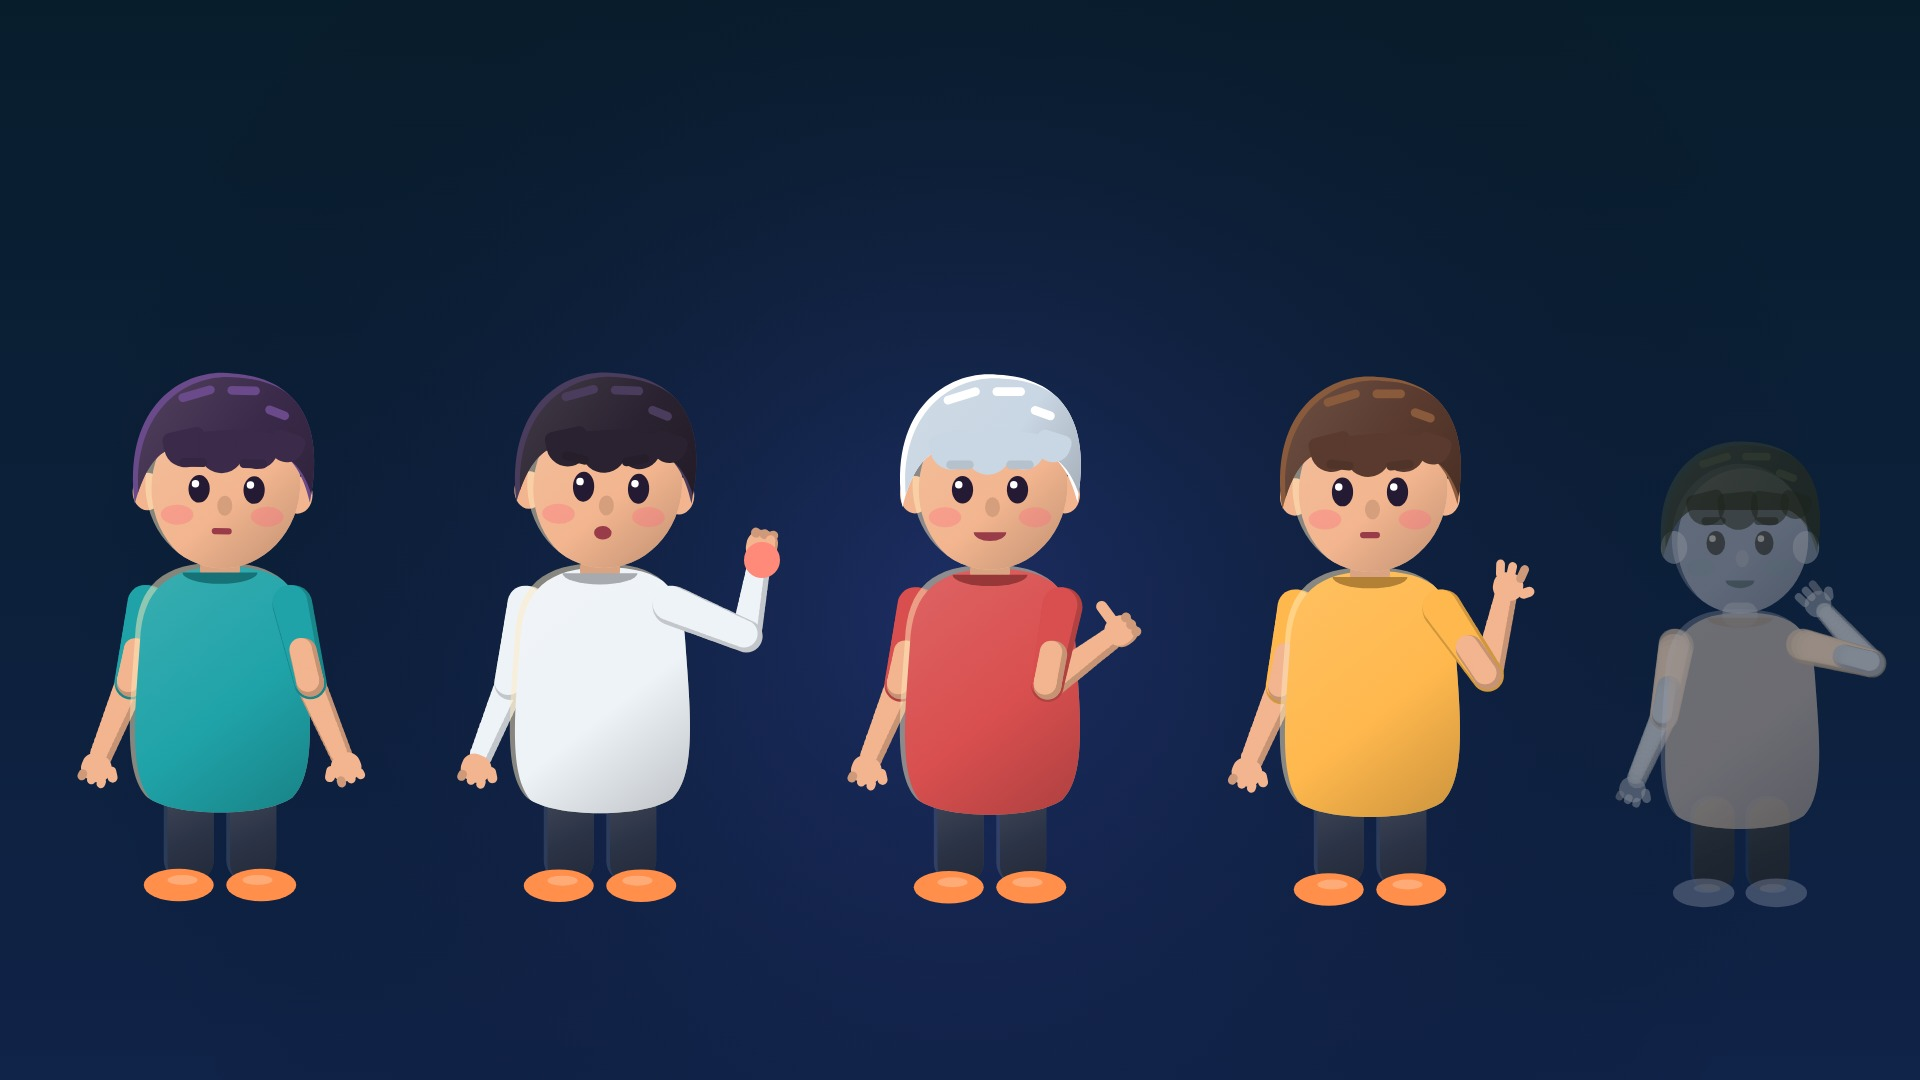
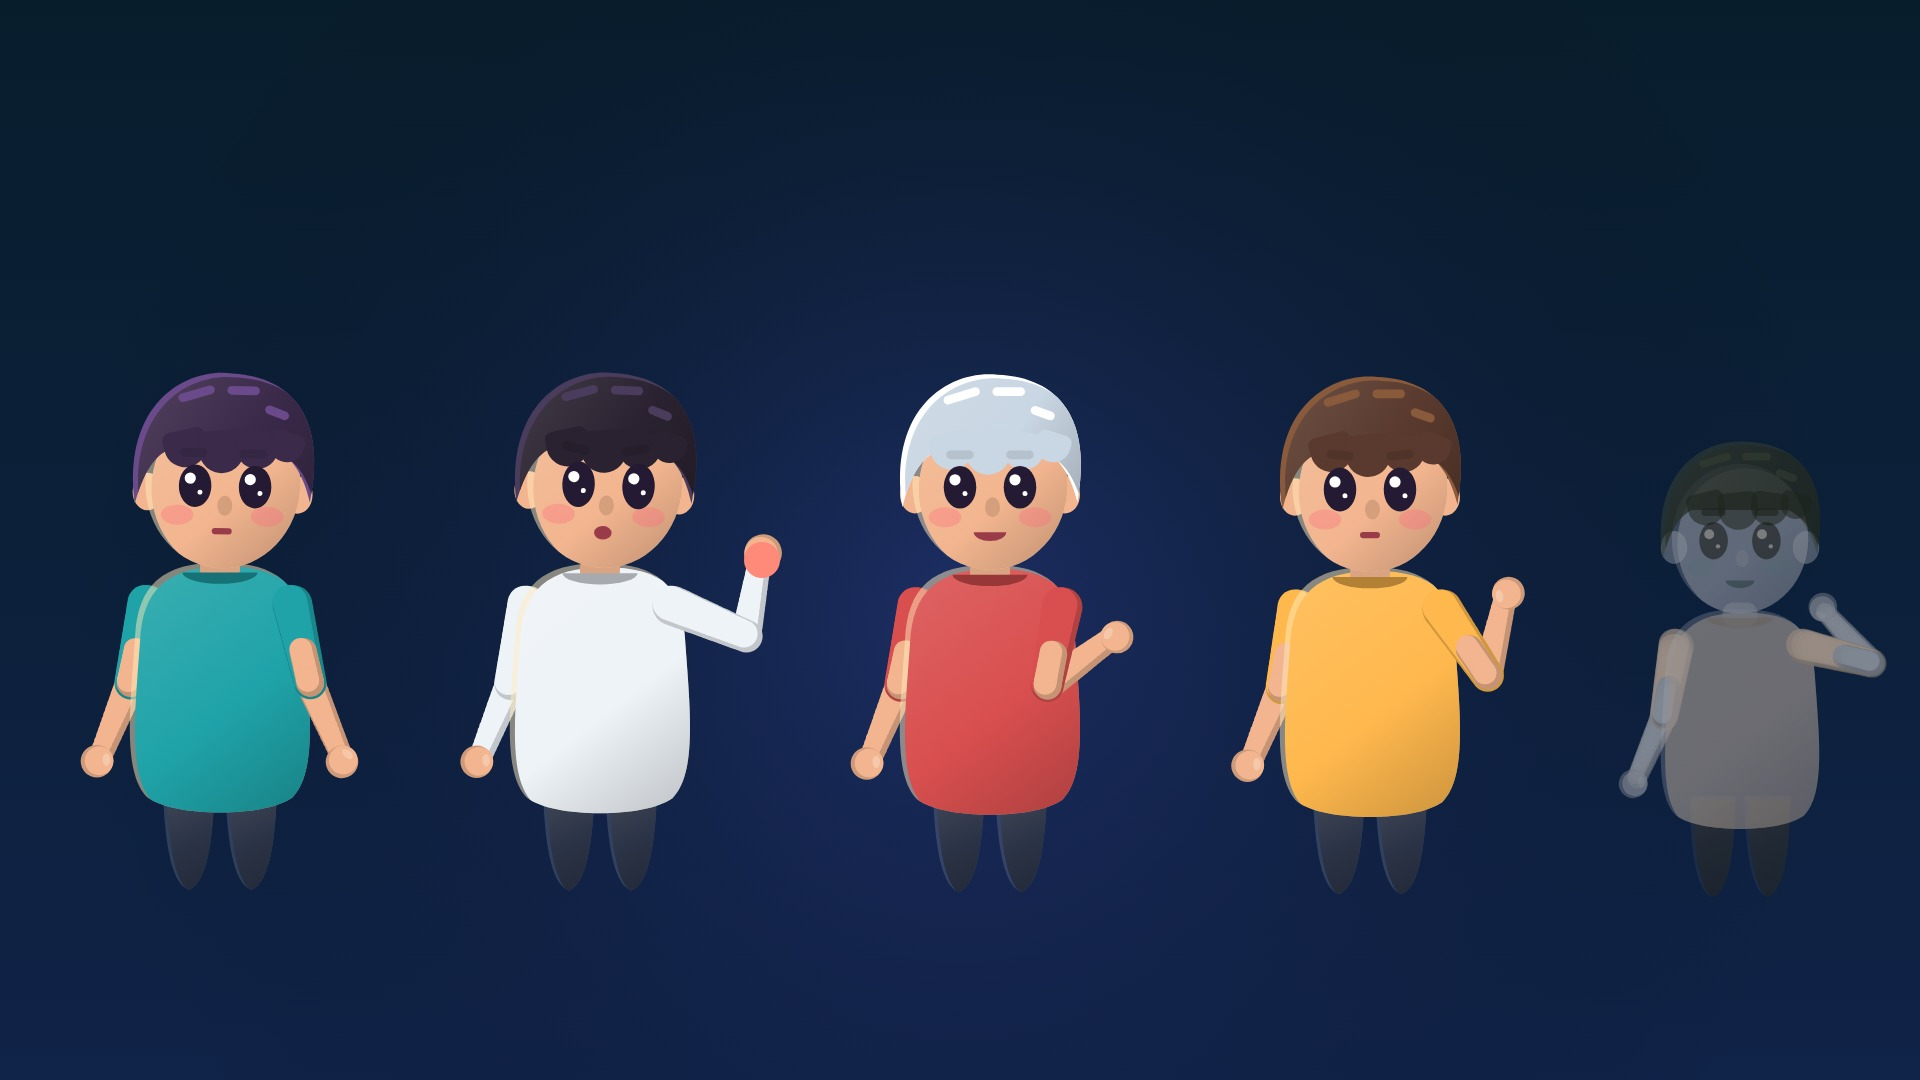
Character v3: no fingers or shoes (rounded stubs), big glossy eyes
Claude-Session: https://claude.ai/code/session_01H3aMRQey6c6WogfkzFoRch

diff --git a/work/personagem/folha.html b/work/personagem/folha.html
@@ -66,21 +66,12 @@ function tube(p, c, q, w0, w1, col, light = true) {
 }
 // mão em mitene com dedos curtos. pose: relax | aberta | punho | aponta | joinha | pare
 function hand2(wr, ang, pose, th, skin) {
+  // mão sem dedos: uma ponta arredondada, com um leve brilho
   ctx.save(); ctx.translate(wr.x, wr.y); ctx.rotate(ang);
-  const sk = skin, sh = shade(skin, -.15);
-  const C = (x, y, r, col) => { ctx.fillStyle = col; ctx.beginPath(); ctx.arc(x, y, r, 0, 6.283); ctx.fill(); };
-  const RR = (x, y, w, h, r, col) => { ctx.fillStyle = col; ctx.beginPath(); ctx.roundRect(x, y, w, h, r); ctx.fill(); };
-  if (pose === 'punho' || pose === 'aponta' || pose === 'joinha') {
-    RR(0, -12, 24, 24, 10, sh); RR(-1, -13, 23, 23, 10, sk);
-    for (let i = 0; i < 3; i++) C(21, -7 + i * 7, 4, sh);
-    if (pose === 'aponta') RR(20, -12, 22, 8, 4, sk);
-    if (pose === 'joinha') RR(6, th > 0 ? -30 : 8, 9, 22, 4.5, sk); else RR(6, th * 5 - 3.5, 15, 8, 4, sk);
-  } else {
-    const ext = pose === 'relax' ? 9 : 15, spr = pose === 'pare' ? .2 : .07;
-    RR(0, -12, 22, 24, 10, sk);
-    for (let i = 0; i < 3; i++) { ctx.save(); ctx.translate(18, -8 + i * 8); ctx.rotate((i - 1) * spr); RR(-2, -3.5, ext, 7, 3.5, i === 2 ? sh : sk); ctx.restore(); }
-    ctx.save(); ctx.translate(6, th * 10); ctx.rotate(th * (pose === 'pare' ? 1 : .6)); RR(0, -4, 13, 8, 4, sk); ctx.restore();
-  }
+  const r = pose === 'punho' ? 15 : 13;
+  ctx.fillStyle = shade(skin, -.15); ctx.beginPath(); ctx.arc(6, 1.5, r, 0, 6.283); ctx.fill();
+  ctx.fillStyle = skin; ctx.beginPath(); ctx.arc(5, 0, r - 1.5, 0, 6.283); ctx.fill();
+  ctx.fillStyle = 'rgba(255,255,255,.25)'; ctx.beginPath(); ctx.ellipse(2, -5, 5, 3, -.4, 0, 6.283); ctx.fill();
   ctx.restore();
 }
 // braço: ombro -> alvo com cotovelo (IK de 2 ossos) desenhado como tubo curvo; devolve o punho
@@ -111,9 +102,8 @@ function drawPerson(x, y, sc, s, a, o = {}) {
   // pernas curtas e sapatos
   if (!o.sit) {
     for (const dd of [-1, 1]) {
-      volume(() => { ctx.beginPath(); ctx.roundRect(dd * 25 - 20, -96, 40, 86, 18); }, P.pants, [dd * 25 - 20, -96, dd * 25 + 20, -10], 'rgba(255,255,255,.12)', 3);
-      ctx.fillStyle = P.shoe; ctx.beginPath(); ctx.ellipse(dd * 27 + dd * 6, -8, 28, 13, 0, 0, 6.283); ctx.fill();
-      ctx.fillStyle = 'rgba(255,255,255,.25)'; ctx.beginPath(); ctx.ellipse(dd * 28 + dd * 2, -12, 12, 4, 0, 0, 6.283); ctx.fill();
+      const leg = () => { ctx.beginPath(); ctx.moveTo(dd * 25 - 21, -96); ctx.lineTo(dd * 25 + 21, -96); ctx.bezierCurveTo(dd * 25 + 20, -50, dd * 25 + 16, -10, dd * 25, -4); ctx.bezierCurveTo(dd * 25 - 16, -10, dd * 25 - 20, -50, dd * 25 - 21, -96); ctx.closePath(); };
+      volume(leg, P.pants, [dd * 25 - 21, -96, dd * 25 + 21, -4], 'rgba(255,255,255,.14)', 3);
     }
   }
   // tronco em "feijão": ombros estreitos, base larga e arredondada
@@ -146,10 +136,10 @@ function drawPerson(x, y, sc, s, a, o = {}) {
   const bl = blink(a, .3), ex = look.x * 7, ey = look.y * 5, w = o.worry || 0;
   ctx.fillStyle = P.blush; ctx.beginPath(); ctx.ellipse(-36, 26, 13, 8, 0, 0, 6.283); ctx.ellipse(36, 26, 13, 8, 0, 0, 6.283); ctx.fill();
   for (const dd of [-1, 1]) {
-    const eh = 11 * (1 - bl * .92) * (o.relief ? .35 : 1) * (1 + w * .15);
-    ctx.fillStyle = '#241a33'; ctx.beginPath(); ctx.ellipse(dd * 22 + ex, 4 + ey, 8.5, eh, 0, 0, 6.283); ctx.fill();
-    if (eh > 4) { ctx.fillStyle = '#ffffff'; ctx.beginPath(); ctx.arc(dd * 22 + ex - 3, ey, 3, 0, 6.283); ctx.fill(); }
-    ctx.save(); ctx.translate(dd * 24, -16 - w * 5); ctx.rotate(dd * -w * .35 + (o.relief ? dd * .15 : 0));
+    const eh = 17 * (1 - bl * .92) * (o.relief ? .3 : 1) * (1 + w * .12);
+    ctx.fillStyle = '#241a33'; ctx.beginPath(); ctx.ellipse(dd * 24 + ex * .6, 2 + ey * .6, 13, eh, 0, 0, 6.283); ctx.fill();
+    if (eh > 6) { ctx.fillStyle = '#ffffff'; ctx.beginPath(); ctx.arc(dd * 24 + ex * .6 - 4, -4 + ey * .6, 4.5, 0, 6.283); ctx.fill(); ctx.beginPath(); ctx.arc(dd * 24 + ex * .6 + 4, 7 + ey * .6, 2, 0, 6.283); ctx.fill(); }
+    ctx.save(); ctx.translate(dd * 24, -24 - w * 5); ctx.rotate(dd * -w * .35 + (o.relief ? dd * .15 : 0));
     ctx.fillStyle = shade(P.hair, -.1); ctx.beginPath(); ctx.roundRect(-11, -3.5, 22, 7, 3.5); ctx.fill(); ctx.restore();
   }
   ctx.fillStyle = shade(P.skin, -.12); ctx.beginPath(); ctx.ellipse(2, 18, 6, 8, 0, 0, 6.283); ctx.fill();

diff --git a/work/personagem/lib_char.js b/work/personagem/lib_char.js
@@ -37,21 +37,12 @@ function tube(p, c, q, w0, w1, col, light = true) {
 }
 // mão em mitene com dedos curtos. pose: relax | aberta | punho | aponta | joinha | pare
 function hand2(wr, ang, pose, th, skin) {
+  // mão sem dedos: uma ponta arredondada, com um leve brilho
   ctx.save(); ctx.translate(wr.x, wr.y); ctx.rotate(ang);
-  const sk = skin, sh = shade(skin, -.15);
-  const C = (x, y, r, col) => { ctx.fillStyle = col; ctx.beginPath(); ctx.arc(x, y, r, 0, 6.283); ctx.fill(); };
-  const RR = (x, y, w, h, r, col) => { ctx.fillStyle = col; ctx.beginPath(); ctx.roundRect(x, y, w, h, r); ctx.fill(); };
-  if (pose === 'punho' || pose === 'aponta' || pose === 'joinha') {
-    RR(0, -12, 24, 24, 10, sh); RR(-1, -13, 23, 23, 10, sk);
-    for (let i = 0; i < 3; i++) C(21, -7 + i * 7, 4, sh);
-    if (pose === 'aponta') RR(20, -12, 22, 8, 4, sk);
-    if (pose === 'joinha') RR(6, th > 0 ? -30 : 8, 9, 22, 4.5, sk); else RR(6, th * 5 - 3.5, 15, 8, 4, sk);
-  } else {
-    const ext = pose === 'relax' ? 9 : 15, spr = pose === 'pare' ? .2 : .07;
-    RR(0, -12, 22, 24, 10, sk);
-    for (let i = 0; i < 3; i++) { ctx.save(); ctx.translate(18, -8 + i * 8); ctx.rotate((i - 1) * spr); RR(-2, -3.5, ext, 7, 3.5, i === 2 ? sh : sk); ctx.restore(); }
-    ctx.save(); ctx.translate(6, th * 10); ctx.rotate(th * (pose === 'pare' ? 1 : .6)); RR(0, -4, 13, 8, 4, sk); ctx.restore();
-  }
+  const r = pose === 'punho' ? 15 : 13;
+  ctx.fillStyle = shade(skin, -.15); ctx.beginPath(); ctx.arc(6, 1.5, r, 0, 6.283); ctx.fill();
+  ctx.fillStyle = skin; ctx.beginPath(); ctx.arc(5, 0, r - 1.5, 0, 6.283); ctx.fill();
+  ctx.fillStyle = 'rgba(255,255,255,.25)'; ctx.beginPath(); ctx.ellipse(2, -5, 5, 3, -.4, 0, 6.283); ctx.fill();
   ctx.restore();
 }
 // braço: ombro -> alvo com cotovelo (IK de 2 ossos) desenhado como tubo curvo; devolve o punho
@@ -82,9 +73,8 @@ function drawPerson(x, y, sc, s, a, o = {}) {
   // pernas curtas e sapatos
   if (!o.sit) {
     for (const dd of [-1, 1]) {
-      volume(() => { ctx.beginPath(); ctx.roundRect(dd * 25 - 20, -96, 40, 86, 18); }, P.pants, [dd * 25 - 20, -96, dd * 25 + 20, -10], 'rgba(255,255,255,.12)', 3);
-      ctx.fillStyle = P.shoe; ctx.beginPath(); ctx.ellipse(dd * 27 + dd * 6, -8, 28, 13, 0, 0, 6.283); ctx.fill();
-      ctx.fillStyle = 'rgba(255,255,255,.25)'; ctx.beginPath(); ctx.ellipse(dd * 28 + dd * 2, -12, 12, 4, 0, 0, 6.283); ctx.fill();
+      const leg = () => { ctx.beginPath(); ctx.moveTo(dd * 25 - 21, -96); ctx.lineTo(dd * 25 + 21, -96); ctx.bezierCurveTo(dd * 25 + 20, -50, dd * 25 + 16, -10, dd * 25, -4); ctx.bezierCurveTo(dd * 25 - 16, -10, dd * 25 - 20, -50, dd * 25 - 21, -96); ctx.closePath(); };
+      volume(leg, P.pants, [dd * 25 - 21, -96, dd * 25 + 21, -4], 'rgba(255,255,255,.14)', 3);
     }
   }
   // tronco em "feijão": ombros estreitos, base larga e arredondada
@@ -117,10 +107,10 @@ function drawPerson(x, y, sc, s, a, o = {}) {
   const bl = blink(a, .3), ex = look.x * 7, ey = look.y * 5, w = o.worry || 0;
   ctx.fillStyle = P.blush; ctx.beginPath(); ctx.ellipse(-36, 26, 13, 8, 0, 0, 6.283); ctx.ellipse(36, 26, 13, 8, 0, 0, 6.283); ctx.fill();
   for (const dd of [-1, 1]) {
-    const eh = 11 * (1 - bl * .92) * (o.relief ? .35 : 1) * (1 + w * .15);
-    ctx.fillStyle = '#241a33'; ctx.beginPath(); ctx.ellipse(dd * 22 + ex, 4 + ey, 8.5, eh, 0, 0, 6.283); ctx.fill();
-    if (eh > 4) { ctx.fillStyle = '#ffffff'; ctx.beginPath(); ctx.arc(dd * 22 + ex - 3, ey, 3, 0, 6.283); ctx.fill(); }
-    ctx.save(); ctx.translate(dd * 24, -16 - w * 5); ctx.rotate(dd * -w * .35 + (o.relief ? dd * .15 : 0));
+    const eh = 17 * (1 - bl * .92) * (o.relief ? .3 : 1) * (1 + w * .12);
+    ctx.fillStyle = '#241a33'; ctx.beginPath(); ctx.ellipse(dd * 24 + ex * .6, 2 + ey * .6, 13, eh, 0, 0, 6.283); ctx.fill();
+    if (eh > 6) { ctx.fillStyle = '#ffffff'; ctx.beginPath(); ctx.arc(dd * 24 + ex * .6 - 4, -4 + ey * .6, 4.5, 0, 6.283); ctx.fill(); ctx.beginPath(); ctx.arc(dd * 24 + ex * .6 + 4, 7 + ey * .6, 2, 0, 6.283); ctx.fill(); }
+    ctx.save(); ctx.translate(dd * 24, -24 - w * 5); ctx.rotate(dd * -w * .35 + (o.relief ? dd * .15 : 0));
     ctx.fillStyle = shade(P.hair, -.1); ctx.beginPath(); ctx.roundRect(-11, -3.5, 22, 7, 3.5); ctx.fill(); ctx.restore();
   }
   ctx.fillStyle = shade(P.skin, -.12); ctx.beginPath(); ctx.ellipse(2, 18, 6, 8, 0, 0, 6.283); ctx.fill();
